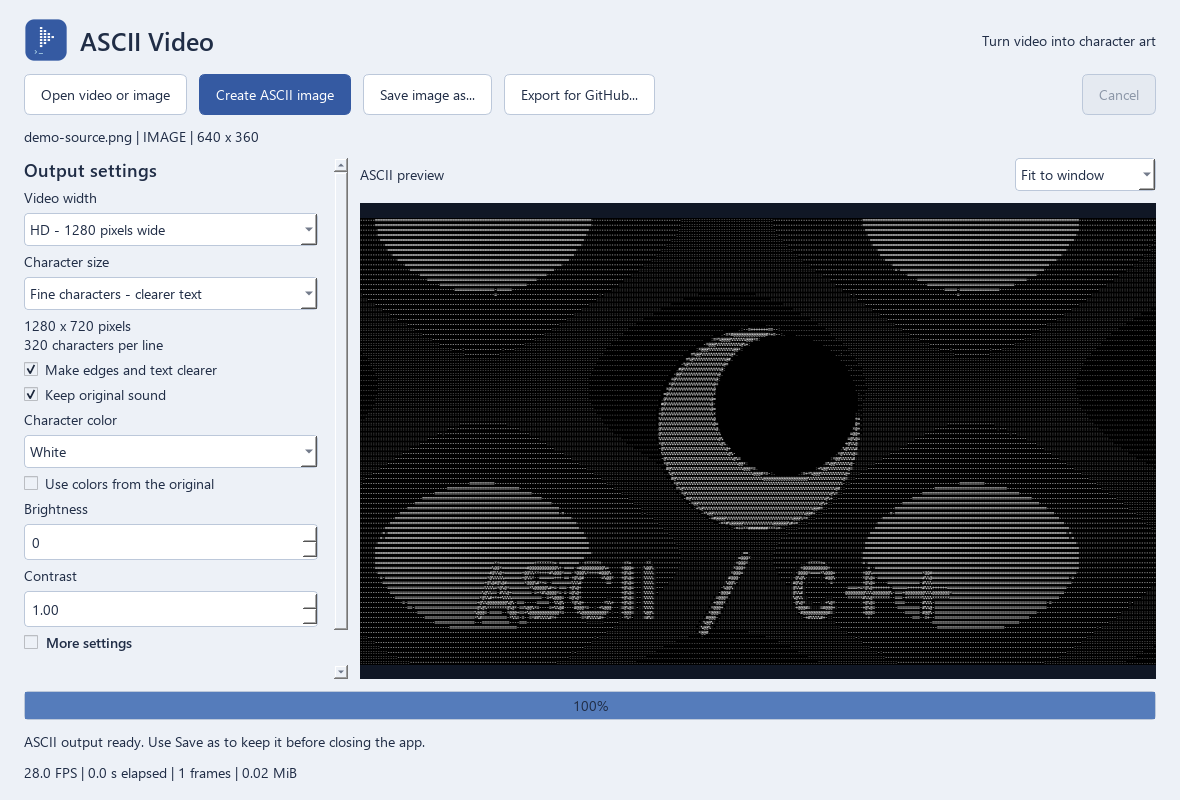
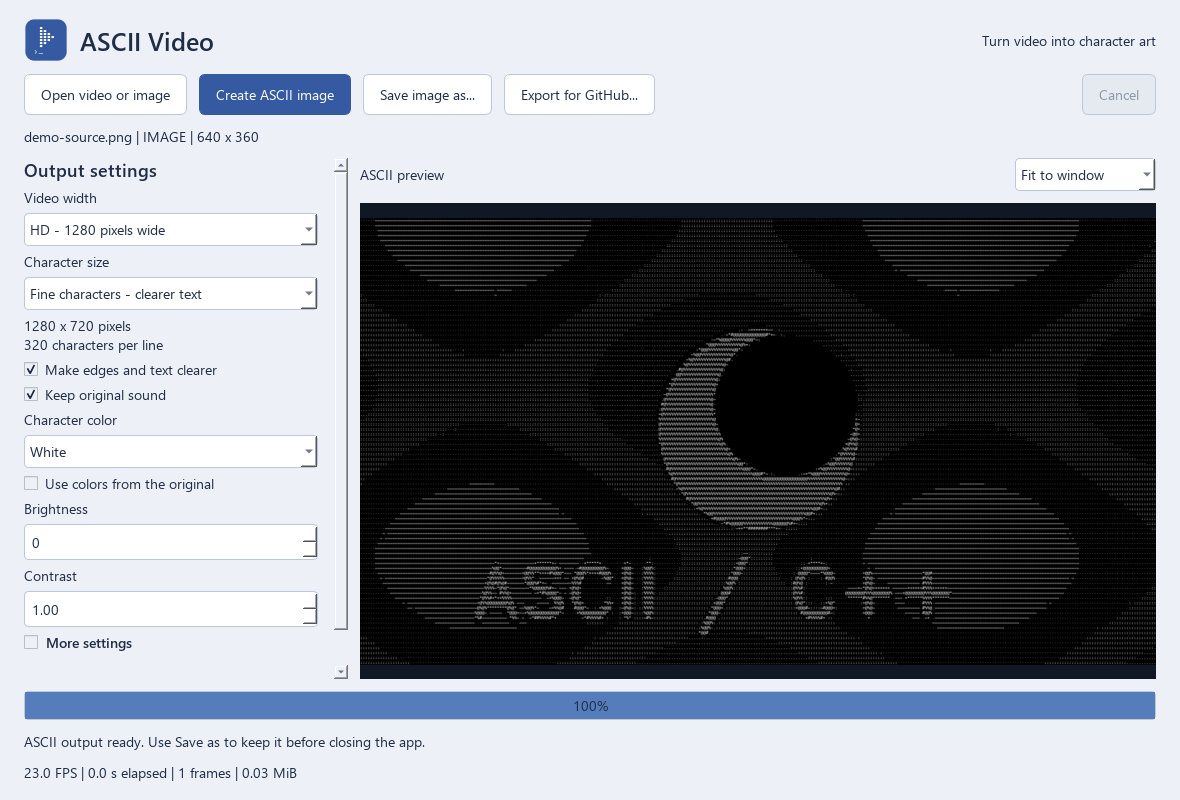
fix: render ASCII with portable glyph atlases and support current Qt Test

diff --git a/tests/tests.cpp b/tests/tests.cpp
@@ -16,6 +16,13 @@
 #include <QTimer>
 #include <opencv2/imgproc.hpp>
 
+// Qt 6.3 replaced the exception assertion; retain compatibility with Qt 6.2.
+#if QT_VERSION >= QT_VERSION_CHECK(6, 3, 0)
+#define ASCII_VERIFY_THROWS(exception, ...) QVERIFY_THROWS_EXCEPTION(exception, __VA_ARGS__)
+#else
+#define ASCII_VERIFY_THROWS(exception, ...) QVERIFY_EXCEPTION_THROWN((__VA_ARGS__), exception)
+#endif
+
 class Tests : public QObject {
     Q_OBJECT
     QTemporaryDir files_;
@@ -72,7 +79,7 @@ class Tests : public QObject {
         s.charset = "X";
         QCOMPARE(ascii::AsciiConverter(s).map(200), 'X');
         s.charset = "\n";
-        QVERIFY_EXCEPTION_THROWN(ascii::AsciiConverter{s}, std::invalid_argument);
+        ASCII_VERIFY_THROWS(std::invalid_argument, ascii::AsciiConverter{s});
     }
     void brightnessContrast() {
         ascii::Settings s;
@@ -93,7 +100,7 @@ class Tests : public QObject {
         QCOMPARE(ascii::AsciiConverter::rowsFor(1920, 1080, 120), 34);
         QCOMPARE(ascii::AsciiConverter::rowsFor(100, 100, 100), 50);
         QCOMPARE(ascii::AsciiConverter::rowsFor(1000, 1, 8), 1);
-        QVERIFY_EXCEPTION_THROWN(ascii::AsciiConverter::rowsFor(0, 100, 100), std::invalid_argument);
+        ASCII_VERIFY_THROWS(std::invalid_argument, ascii::AsciiConverter::rowsFor(0, 100, 100));
     }
     void highResolutionText() {
         ascii::Settings fine;
@@ -101,7 +108,7 @@ class Tests : public QObject {
         fine.columns = 960;
         QCOMPARE(ascii::AsciiConverter::outputSize(1920, 1080, fine), QSize(3840, 2160));
         fine.columns = 961;
-        QVERIFY_EXCEPTION_THROWN(fine.validate(), std::invalid_argument);
+        ASCII_VERIFY_THROWS(std::invalid_argument, fine.validate());
         fine.columns = 480;
         fine.sharpen = false;
         cv::Mat letters(1080, 1920, CV_8UC3, cv::Scalar(0, 0, 0));
@@ -130,8 +137,10 @@ class Tests : public QObject {
         auto old = fine;
         old.columns = 100;
         old.fineDetail = false;
-        QVERIFY2(measure(fine) > measure(old) * 1.5,
-                 "Fine ASCII must recover subtitle strokes better than the old 100-column default.");
+        const auto fineOverlap = measure(fine), oldOverlap = measure(old);
+        QVERIFY2(
+            fineOverlap > oldOverlap * 1.5,
+            qPrintable(QString("Subtitle stroke overlap: fine %1, old %2").arg(fineOverlap).arg(oldOverlap)));
         const auto demo = qEnvironmentVariable("ASCII_TEXT_DEMO_DIR");
         if (!demo.isEmpty()) {
             QDir().mkpath(demo);
@@ -158,8 +167,8 @@ class Tests : public QObject {
         muted.keepAudio = false;
         const auto silent = files_.filePath("silent-ascii.mp4");
         ascii::FramePipeline{}.run(input, silent, muted, stop_);
-        QVERIFY_EXCEPTION_THROWN(ascii::runFfmpeg({"-i", silent, "-map", "0:a:0", "-f", "null", "-"}, stop_),
-                                 std::runtime_error);
+        ASCII_VERIFY_THROWS(std::runtime_error,
+                            ascii::runFfmpeg({"-i", silent, "-map", "0:a:0", "-f", "null", "-"}, stop_));
     }
     void terminalColor() {
         cv::Mat frame(16, 16, CV_8UC3, cv::Scalar(0, 0, 255));
@@ -178,28 +187,27 @@ class Tests : public QObject {
         QCOMPARE(QImage(copy), QImage(result.output));
     }
     void invalidInputs() {
-        QVERIFY_EXCEPTION_THROWN(ascii::MediaInput(files_.filePath("missing.mp4")), std::runtime_error);
+        ASCII_VERIFY_THROWS(std::runtime_error, ascii::MediaInput(files_.filePath("missing.mp4")));
         QFile empty(files_.filePath("empty.mp4"));
         QVERIFY(empty.open(QIODevice::WriteOnly));
         empty.close();
-        QVERIFY_EXCEPTION_THROWN(ascii::MediaInput(empty.fileName()), std::runtime_error);
+        ASCII_VERIFY_THROWS(std::runtime_error, ascii::MediaInput(empty.fileName()));
         QFile corrupt(files_.filePath("corrupt.png"));
         QVERIFY(corrupt.open(QIODevice::WriteOnly));
         corrupt.write("invalid");
         corrupt.close();
-        QVERIFY_EXCEPTION_THROWN(ascii::MediaInput(corrupt.fileName()), std::runtime_error);
+        ASCII_VERIFY_THROWS(std::runtime_error, ascii::MediaInput(corrupt.fileName()));
         const auto noFrames = files_.filePath("no-frames.mp4");
         ascii::runFfmpeg(
             {"-f", "lavfi", "-i", "color=size=96x64:rate=24", "-frames:v", "0", "-c:v", "libx264", noFrames},
             stop_);
         QVERIFY(QFileInfo(noFrames).size() > 0);
-        QVERIFY_EXCEPTION_THROWN(ascii::MediaInput{noFrames}, std::runtime_error);
+        ASCII_VERIFY_THROWS(std::runtime_error, ascii::MediaInput{noFrames});
     }
     void missingCodec() {
         const auto output = files_.filePath("bad-codec.mp4");
-        QVERIFY_EXCEPTION_THROWN(
-            ascii::FramePipeline{}.run(source_, output, config(), stop_, {}, "encoder_does_not_exist"),
-            std::runtime_error);
+        ASCII_VERIFY_THROWS(std::runtime_error, ascii::FramePipeline{}.run(source_, output, config(), stop_,
+                                                                           {}, "encoder_does_not_exist"));
         QVERIFY(!QFileInfo::exists(output));
     }
     void videoFpsOrderDownload() {
@@ -254,8 +262,8 @@ class Tests : public QObject {
         QFile markdown(folder + "/profile-snippet.md");
         QVERIFY(markdown.open(QIODevice::ReadOnly));
         QVERIFY(markdown.readAll().contains("YOUR_GITHUB_USERNAME/YOUR_REPOSITORY"));
-        QVERIFY_EXCEPTION_THROWN(ascii::GitHubExporter::create(image, imageRoot.path(), options, stop_),
-                                 std::runtime_error);
+        ASCII_VERIFY_THROWS(std::runtime_error,
+                            ascii::GitHubExporter::create(image, imageRoot.path(), options, stop_));
         auto video = convertVideo("profile-video.mp4");
         QTemporaryDir videoRoot;
         options.previewSeconds = 1;
@@ -272,8 +280,8 @@ class Tests : public QObject {
         QVERIFY(snippet.readAll().contains("example/ascii-video-cpp/raw/HEAD"));
         QTemporaryDir smallRoot;
         options.maxGifBytes = 1024;
-        QVERIFY_EXCEPTION_THROWN(ascii::GitHubExporter::create(video, smallRoot.path(), options, stop_),
-                                 std::runtime_error);
+        ASCII_VERIFY_THROWS(std::runtime_error,
+                            ascii::GitHubExporter::create(video, smallRoot.path(), options, stop_));
         QVERIFY(!QFileInfo::exists(smallRoot.filePath("github-export")));
     }
     void boundedMemoryAndCancellation() {
@@ -292,9 +300,9 @@ class Tests : public QObject {
         ascii::MediaInput preview(folder + "/ascii-profile.gif");
         QVERIFY(preview.info().duration <= 1.1);
         const auto cancelled = files_.filePath("cancelled.mp4");
-        QVERIFY_EXCEPTION_THROWN(ascii::FramePipeline{}.run(longSource, cancelled, config(), stop_,
-                                                            [&](const auto &) { stop_ = true; }),
-                                 std::runtime_error);
+        ASCII_VERIFY_THROWS(std::runtime_error,
+                            ascii::FramePipeline{}.run(longSource, cancelled, config(), stop_,
+                                                       [&](const auto &) { stop_ = true; }));
         stop_ = false;
         QVERIFY(!QFileInfo::exists(cancelled));
     }

diff --git a/src/AsciiConverter.cpp b/src/AsciiConverter.cpp
@@ -3,7 +3,6 @@
 #include <QFileInfo>
 #include <QFont>
 #include <QFontDatabase>
-#include <QPainter>
 #include <QResource>
 #include <QStandardPaths>
 #include <algorithm>
@@ -92,16 +91,14 @@ AsciiConverter::AsciiConverter(Settings settings)
         lut_[static_cast<size_t>(i)] =
             static_cast<unsigned char>(value * static_cast<double>(settings_.charset.size() - 1) / 255.0);
     }
-    QFont font = monospaceFont();
-    font.setPixelSize(settings_.fineDetail ? 7 : 14);
+    initializeFontResources();
+    // Pre-rendered ASCII cells keep tiny glyphs identical across Qt/platform font engines.
+    const QImage atlas(settings_.fineDetail ? ":/fonts/atlas-fine.png" : ":/fonts/atlas-classic.png");
+    if (atlas.isNull())
+        throw std::runtime_error("The bundled ASCII glyph atlas is unavailable.");
     for (char c : settings_.charset) {
-        QImage glyph(cellWidth_, cellHeight_, QImage::Format_ARGB32);
-        glyph.fill(Qt::transparent);
-        QPainter painter(&glyph);
-        painter.setFont(font);
-        painter.setPen(Qt::white);
-        painter.drawText(glyph.rect(), Qt::AlignCenter, QString(QChar::fromLatin1(c)));
-        painter.end();
+        QImage glyph = atlas.copy((c - 32) * cellWidth_, 0, cellWidth_, cellHeight_)
+                           .convertToFormat(QImage::Format_ARGB32);
         atlas_.push_back(std::move(glyph));
     }
 }

diff --git a/scripts/generate_glyph_atlas.py b/scripts/generate_glyph_atlas.py
@@ -1,0 +1,19 @@
+"""Generate deterministic ASCII glyph bitmaps with Pillow and the bundled font."""
+from pathlib import Path
+from PIL import Image, ImageDraw, ImageFont
+
+root = Path(__file__).resolve().parents[1] / "assets/fonts"
+scale = 4
+for width, height, size, name in [(4, 8, 7, "fine"), (8, 16, 14, "classic")]:
+    font = ImageFont.truetype(str(root / "DejaVuSansMono.ttf"), size * scale)
+    ascent, descent = font.getmetrics()
+    atlas = Image.new("RGBA", (width * 95, height))
+    for index in range(95):
+        character = chr(32 + index)
+        glyph = Image.new("RGBA", (width * scale, height * scale))
+        draw = ImageDraw.Draw(glyph)
+        x = (width * scale - font.getlength(character)) / 2
+        y = (height * scale - ascent - descent) / 2
+        draw.text((x, y), character, font=font, fill=(255, 255, 255, 255), anchor="la")
+        atlas.paste(glyph.resize((width, height), Image.Resampling.LANCZOS), (index * width, 0))
+    atlas.save(root / f"atlas-{name}.png")

diff --git a/CONTRIBUTING.md b/CONTRIBUTING.md
@@ -12,7 +12,7 @@ ctest --test-dir build-review --output-on-failure
 clang-format --dry-run --Werror include/*.hpp src/*.cpp tests/*.cpp benchmarks/*.cpp
 ```
 
-The Windows vcpkg configuration needs the toolchain arguments shown in README.
+Windows uses the documented MSYS2 build; vcpkg.json is an optional dependency manifest.
 Linux headless runs use QT_QPA_PLATFORM=offscreen (CTest sets this for the test).
 Do not commit build output, credentials, personal paths or third-party media without permission.
 The original synthetic demo comes from the deterministic C++ generator and is covered by LICENSE.
@@ -21,3 +21,7 @@ The separate supplied-clip showcase has its own source notes; its underlying ani
 Keep the frame capacity bounded across decoder, workers and encoder. A reorder map that can grow
 while one worker stalls is not an acceptable replacement for the ring.
 Do not add a benchmark claim without input dimensions, duration, settings, platform and measured results.
+
+ASCII glyph bitmaps are generated by scripts/generate_glyph_atlas.py from the bundled DejaVu font.
+Commit both atlas sizes when changing them, and retain the font license. Runtime font engines must not
+change the appearance of saved videos. Regenerating icons/atlases requires Pillow; normal builds do not.
